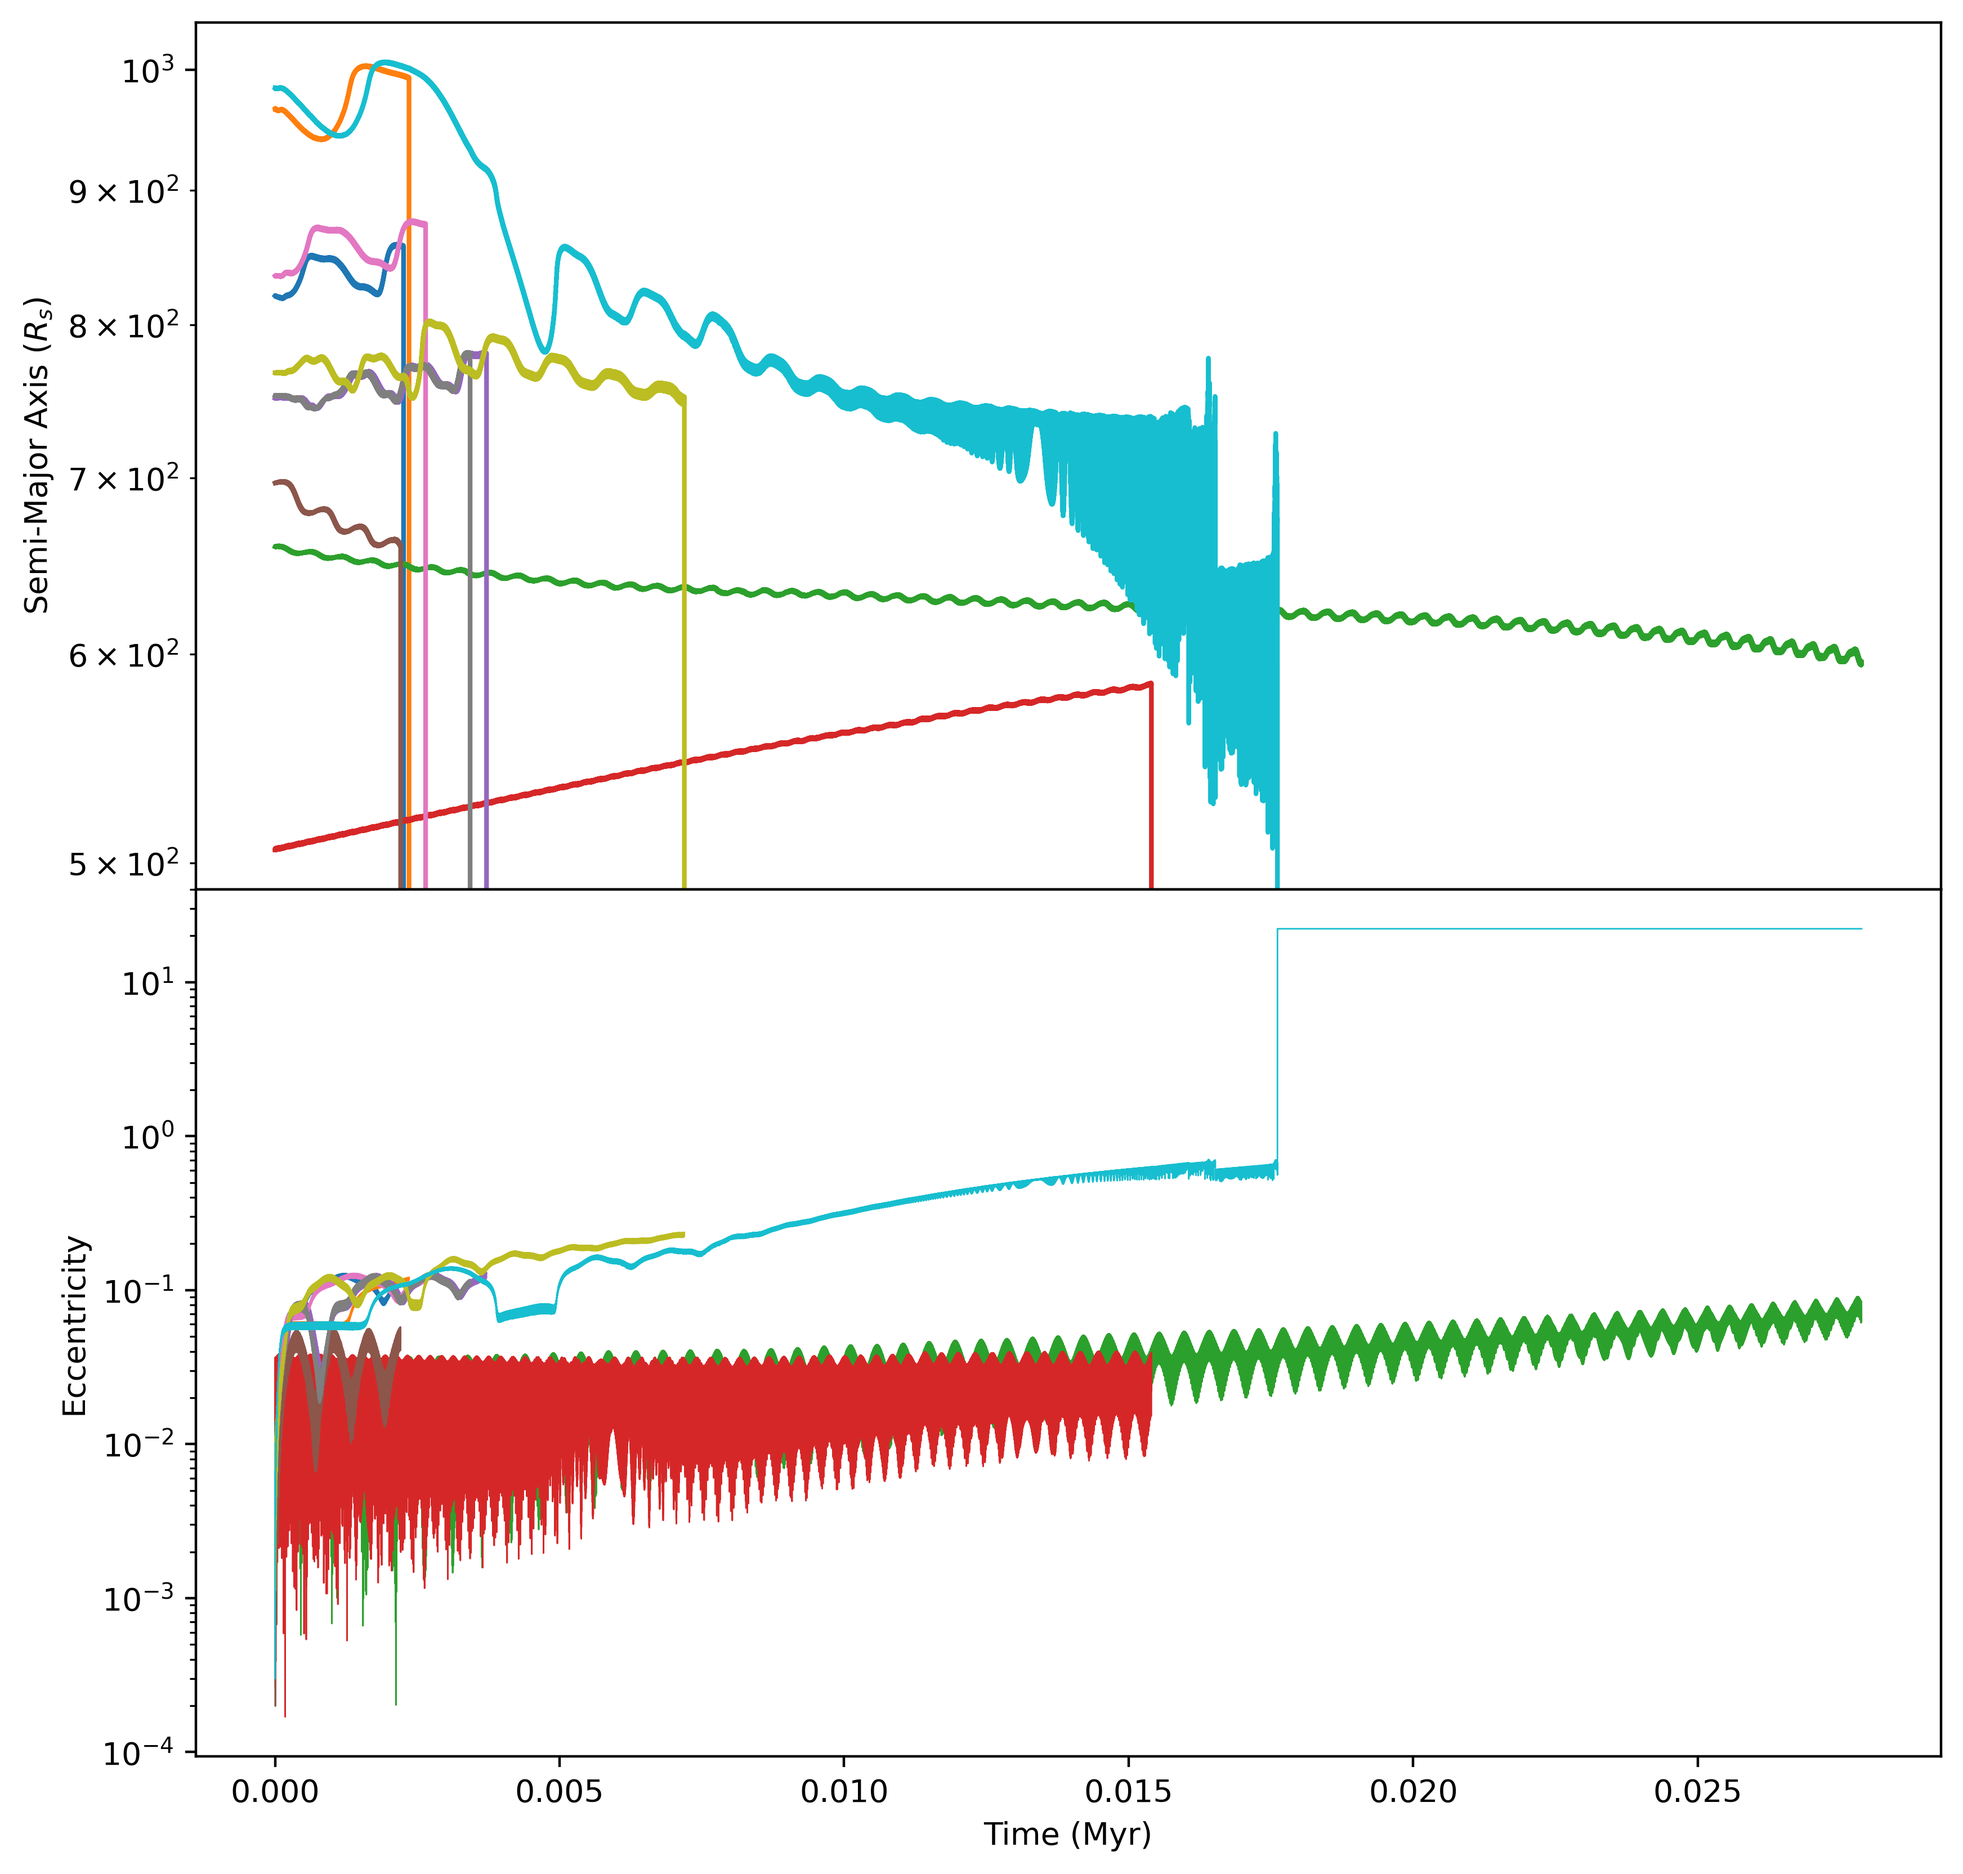
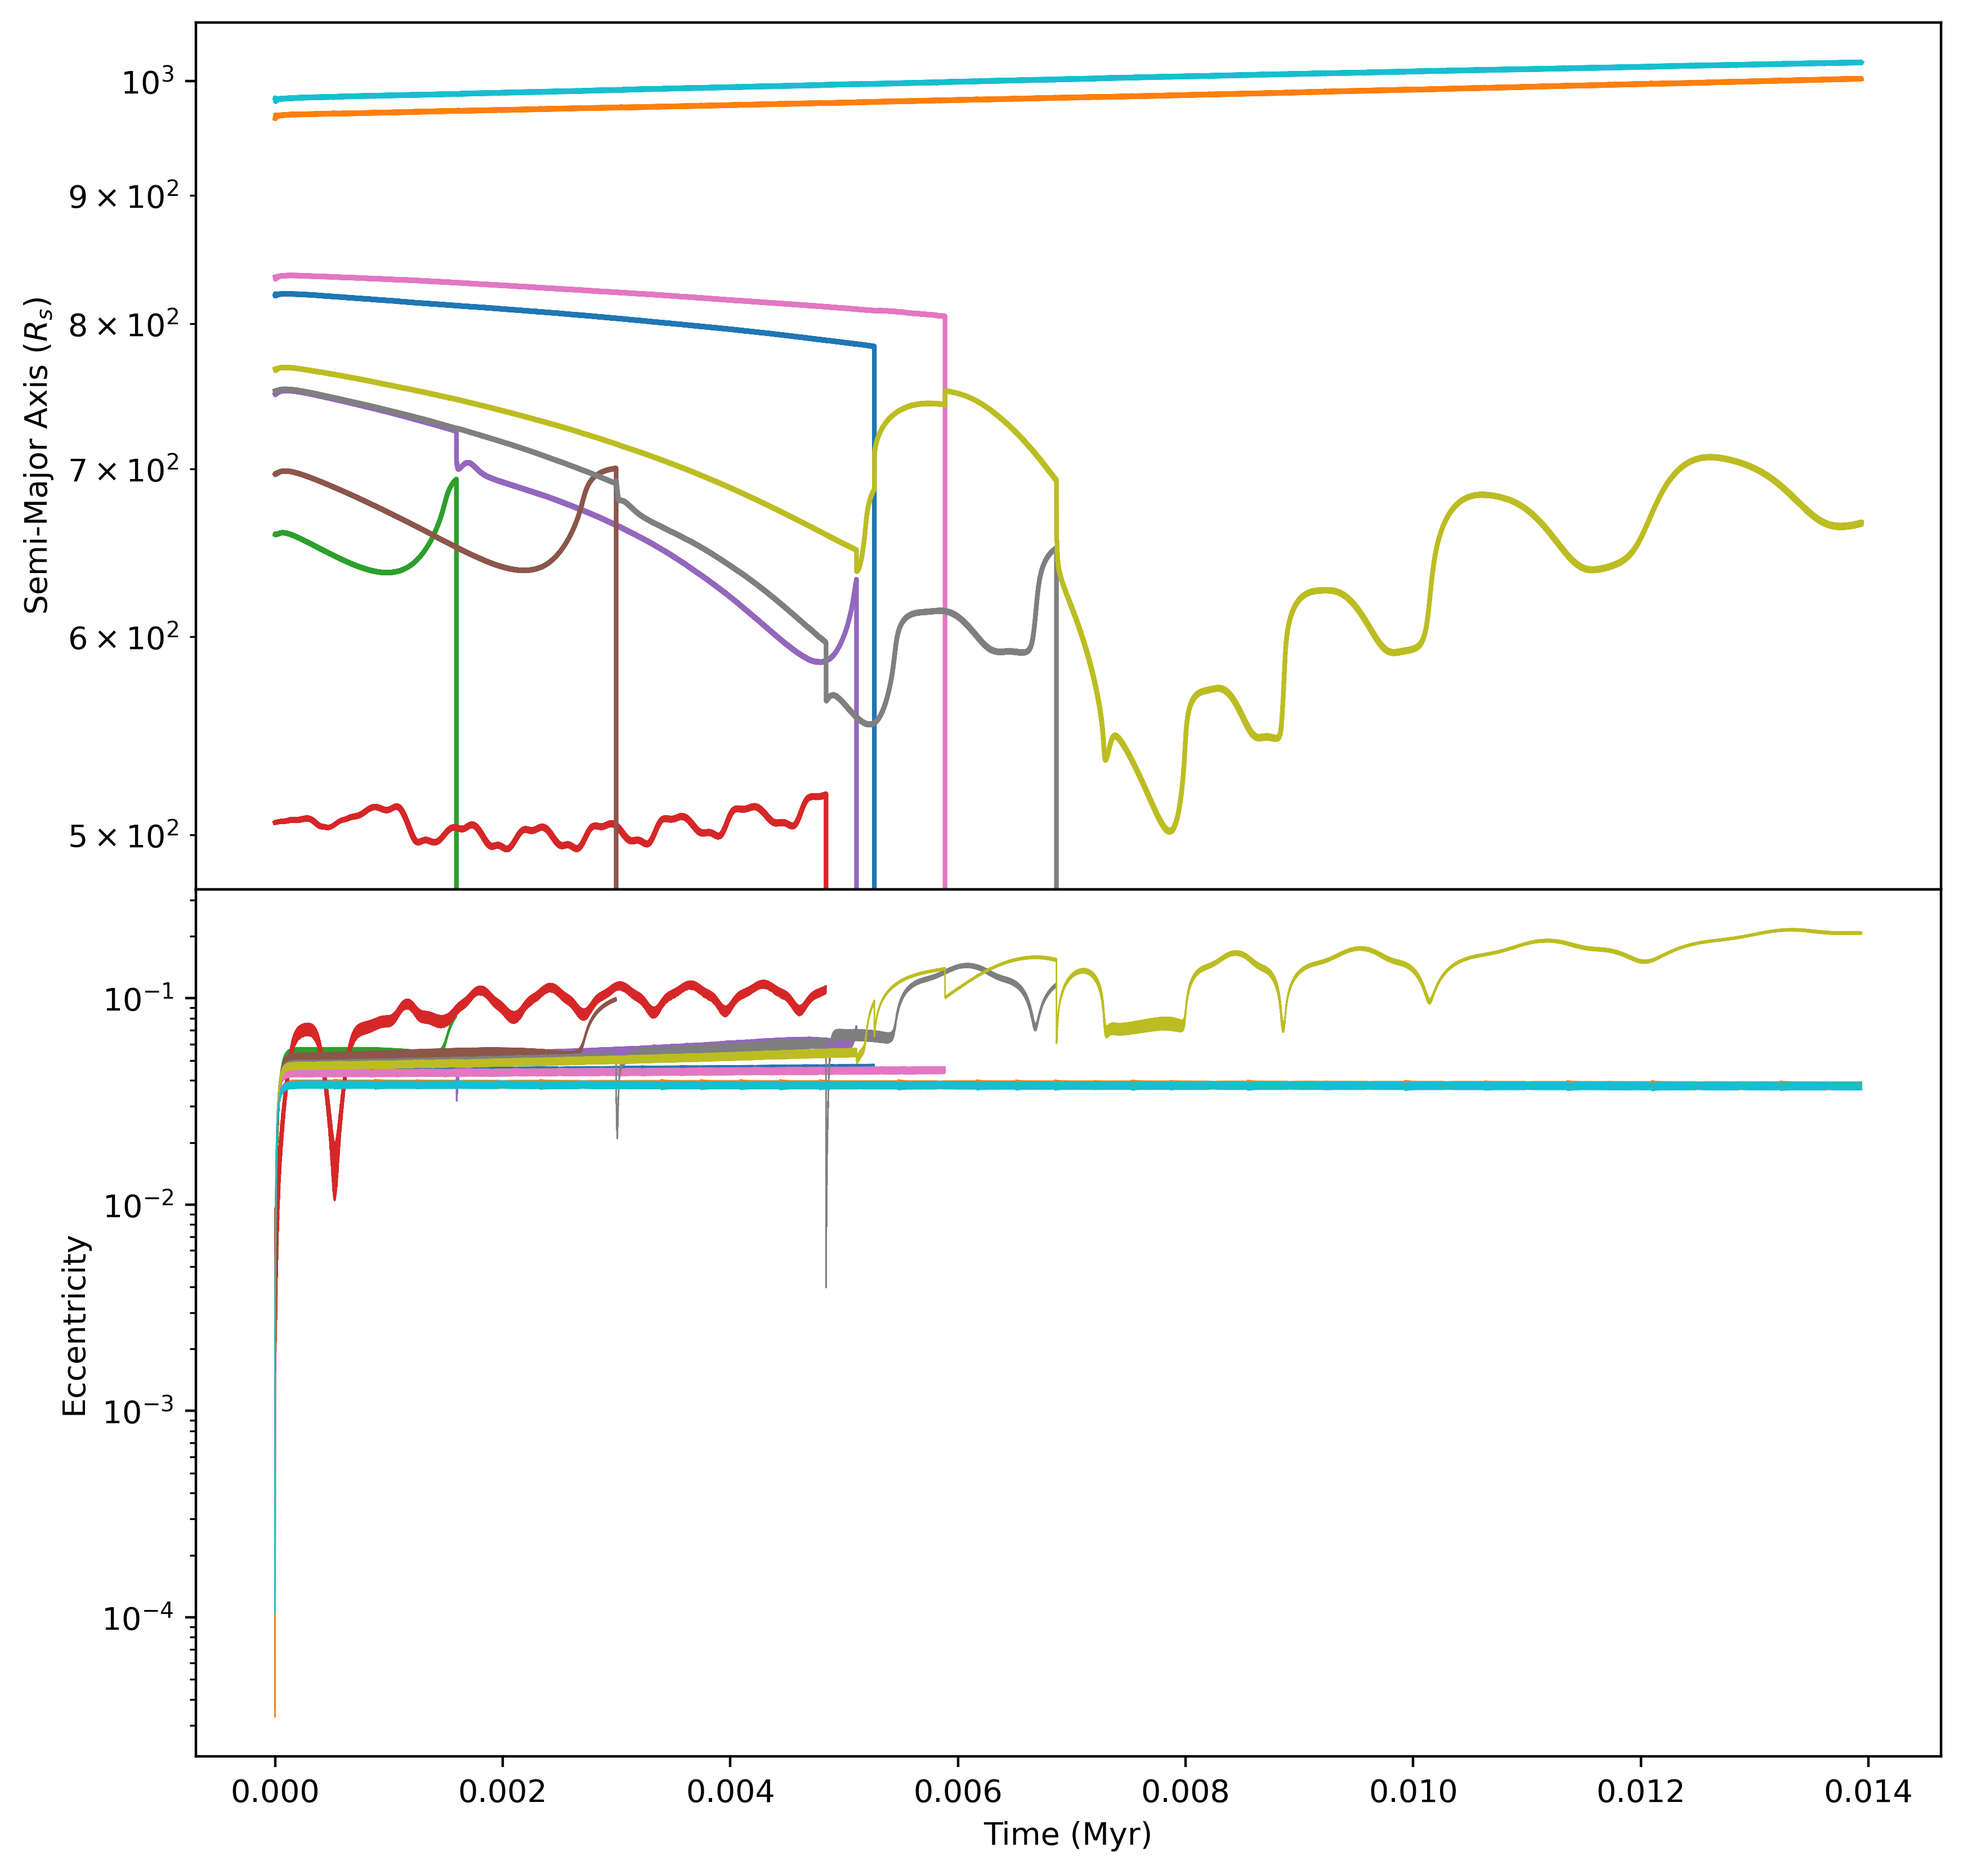
Weighted averages in capture, fix bug in torque normalisation

diff --git a/N-Body_Code/CommonTools.py b/N-Body_Code/CommonTools.py
@@ -91,7 +91,6 @@ class AGNDisk(object):
         q = mass    # mass ratio of the migrator to the SMBH - assume SMBH has a mass of 1
         gamma = 5/3     # adiabatic index
         c_v = 14304 * self.massscale    # specific heat capacity of hydrogen H2 gas, units are J/K
-
         # logr = np.log10(radius * self.lenscale_rs)  # find log(radius) where radius is in units of SMBH Schwarzschild radii
         logr = np.log10(radius / self.nondim_rs)
         Sigma = self.disk_surfdens(logr)        # surface density
@@ -117,8 +116,7 @@ class AGNDisk(object):
         xi = beta - (gamma - 1) * alpha
         
         Theta = (c_v * Sigma * rotvel * tau_eff) / (12 * np.pi * stefboltz * self.disk_temp(logr)**3)
-        # print(Theta)
-        Gamma_0 = (q / asp_ratio)**2 * Sigma * radius**4 * rotvel**2
+        Gamma_0 = (q * radius / asp_ratio)**2 * Sigma * radius**4 * rotvel**2
         # print(Gamma_0, (q / asp_ratio), Sigma, radius**4, rotvel**2)
         Gamma_iso =  -0.85 - alpha - 0.9 * beta
         Gamma_ad = (-0.85 - alpha - 1.7 * beta + 7.9 * xi / gamma) / gamma
@@ -141,8 +139,8 @@ class AGNDisk(object):
         logr = np.log10(radius / self.nondim_rs)
         a = semi_major_axis(position, vel)
         h = self.disk_aspectratio(logr)
-        # velocity = self.disk_angularvel(position, vel)
-        velocity = self.disk_rotvel(logr)
+        velocity = self.disk_angularvel(position, vel)
+        # velocity = self.disk_rotvel(logr)
         smbhmass = 1
         tdamp = (smbhmass**2 * h**4) / (mass * self.disk_surfdens(logr) * a**2 * velocity)
         e = eccentricity(position, vel)        # https://astronomy.stackexchange.com/questions/29005/calculation-of-eccentricity-of-orbit-from-velocity-and-radius
@@ -283,7 +281,7 @@ def leapfrog_kdk_timestep(dt, pos, masses, softening, vel, accel, agn, captured,
         for i in check_inds:
             # b = accel[i]
             accel[i] += agn.get_forces(masses[i], pos[i], vel[i])
-            # print(b - accel[i])
+            # print(b)
     # then another half-step kick
     vel[:] = vel + 0.5 * dt * accel
     
@@ -319,7 +317,9 @@ def leapfrog_kdk_timestep(dt, pos, masses, softening, vel, accel, agn, captured,
                 print(check_inds)
                 captured.append(primary)    # add the primary to the captured list
                 captured[:] = captured      # modify in place to update the list outside of this function
-                masses[secondary] += masses[primary]    # assume no mass loss in the merger
+                masses[secondary] += masses[primary]; masses[secondary] *= 0.95   # assume merged mass is 95% of the sum of the original masses
+                pos[secondary] = (m1 * pos[primary] + m2 * pos[secondary]) / (m1 + m2)  # set the position of the new BH to be the mass-weighted average
+                vel[secondary] = (m1 * vel[primary] + m2 * vel[secondary]) / (m1 + m2)  # set the velocity of the new BH to be the mass-weighted average
                 masses[primary] = 0 # set the mass of the 'other' BH to 0 so that it doesnt affect the rest of the sim
                 break       # we want to break because we dont want to merge the same BH more than once in 1 timestep
             
@@ -506,11 +506,12 @@ def semi_major_axis(position, velocity):
     '''N-Body Units calc'''
     radius = np.linalg.norm(position)
     vel_mag = np.linalg.norm(velocity)
-    a = - radius / (radius * vel_mag**2 - 2)    # https://physics.stackexchange.com/questions/295431/how-can-i-calculate-the-semi-major-axis-from-velocity-position-and-pull
+    a = radius / (2 - radius * vel_mag**2)    # https://physics.stackexchange.com/questions/295431/how-can-i-calculate-the-semi-major-axis-from-velocity-position-and-pull
+    # also found by rearranging the expression v^2 = GM(2/r - 1/a)
     return a
 
 def eccentricity(position, velocity):
-    '''
+    '''https://en.wikipedia.org/wiki/Eccentricity_vector
     '''
     radius = np.linalg.norm(position)
     e = np.linalg.norm(np.cross(velocity, np.cross(position, velocity)) - position / radius)

diff --git a/N-Body_Code/DiskModel_Torques.py b/N-Body_Code/DiskModel_Torques.py
@@ -67,12 +67,13 @@ torques = np.zeros(len(radii))
 for i, radius in enumerate(radii):
     torques[i] = agn.mig_force(0.00001, radius)
 
+torques *= agn.massscale * agn.lenscale_m**2 / agn.timescale**2 / 1e49 / (1000 * 1e4)
 pos_vals = torques > 0 
 neg_vals = torques <= 0 
 fig, ax = plt.subplots()
 
 ax.scatter(radii[pos_vals] / agn.nondim_rs, torques[pos_vals], s=5, label='negative')
 ax.scatter(radii[neg_vals] / agn.nondim_rs, -torques[neg_vals], c='r', s=5, label='positive')
-ax.set(xscale='log', yscale='log', xlabel="Log(R/R$_s$)", ylabel='abs($\Gamma$)')
+ax.set(xscale='log', yscale='log', xlabel="Log(R/R$_s$)", ylabel='abs($\Gamma$) / 1e49')
 ax.legend()
 fig.savefig('Torque Model.png', dpi=400, bbox_inches='tight')

diff --git a/N-Body_Code/nbodytest.py b/N-Body_Code/nbodytest.py
@@ -14,8 +14,8 @@ import time
 from CommonTools import *
 
 
-Tmax = 20000
-dt = 0.1
+Tmax = 10000
+dt = 0.05
 nt = int((Tmax - 0) / dt) + 1
 NsBH = 10
 NsBHMasses = np.ones(NsBH) * 10
